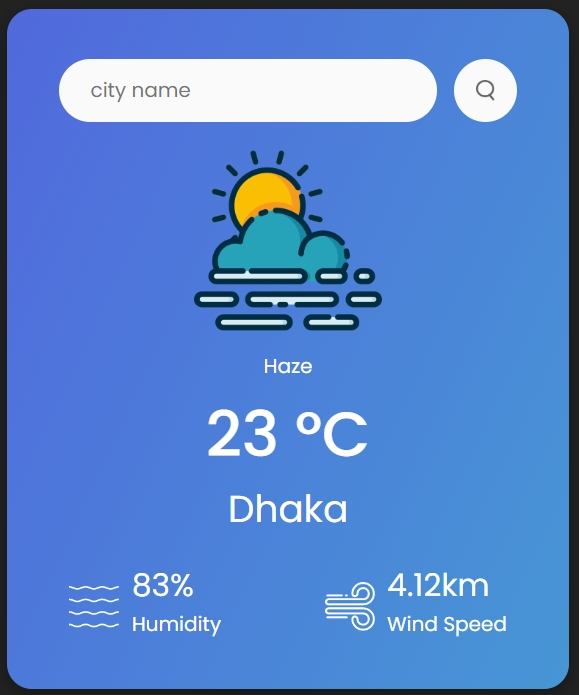
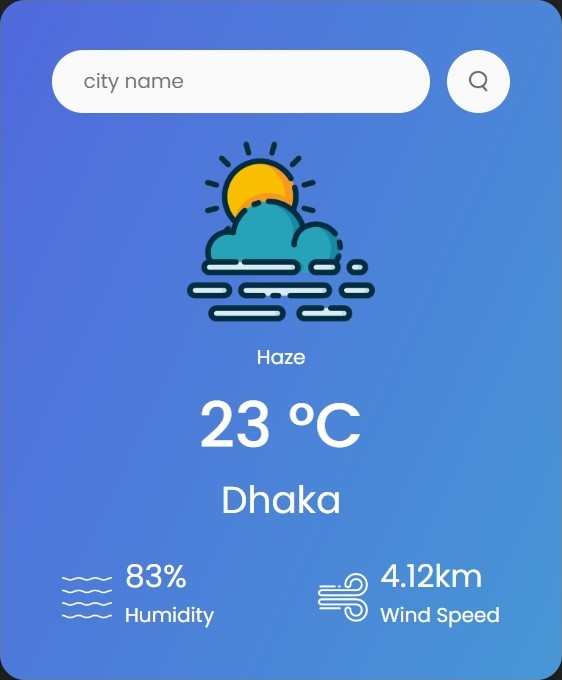
update 3rd projects

diff --git a/index.html b/index.html
@@ -248,12 +248,13 @@
         </div>
         <div class="details-container color-container">
             <div class="articel-container">
-                <img src="./assets/project-3.png" alt="project 1" class="project-img">
+                <img src="./assets/weatherApp.jpg" alt="project 1" class="project-img">
             </div>
-            <h2 class="experience-sub-title project-title">Project Three</h2>
+            <p>Live weather application using Vanilla html, css & javascript</p>
+            <h2 class="experience-sub-title project-title">Live Weather App</h2>
             <div class="btn-container">
                 <button class="btn btn-color-2 project-btn js-project-link">
-                    Project Three
+                    Weather App
                 </button>
                 <!-- <button class="btn btn-color-2 project-btn js-project-link">
                     Live Demo
